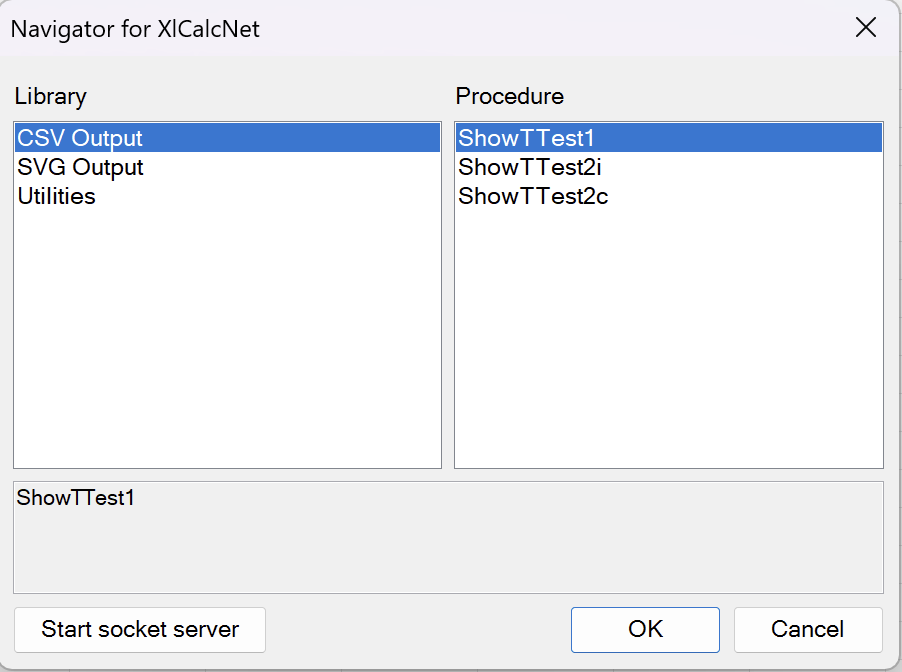
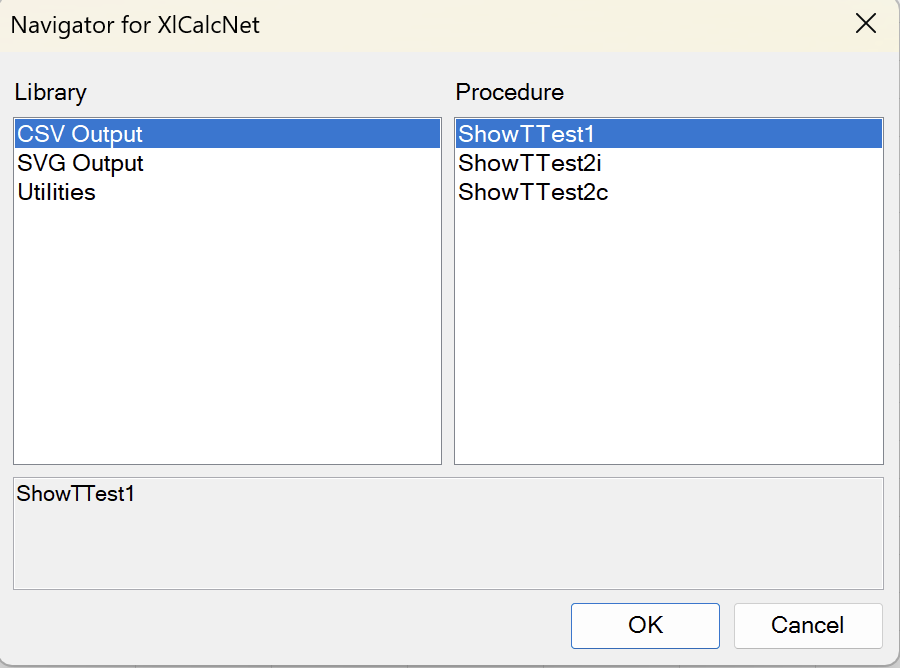
Update1004a

diff --git a/doc/conf.py b/doc/conf.py
@@ -84,9 +84,9 @@ copyright = '2026, Dietrich Hadler. '
 # other places throughout the built documents.
 #
 # The short X.Y version.
-version = '0.4'
+version = '0.5'
 # The full version, including alpha/beta/rc tags.
-release = '0.4.0'
+release = '0.5.0'
 
 # There are two options for replacing |today|: either, you set today to some
 # non-false value, then it is used:

diff --git a/doc/B01_GeneralUsage/C01_Setup.rst b/doc/B01_GeneralUsage/C01_Setup.rst
@@ -646,32 +646,24 @@ Calling Python from C:\#: socket server vs in-process calls
 
 A running socket server is critical for the use of XlCalcNet from Microsoft Excel.
 
-When starting the socket server for the first time from a specific installation of python.exe, a dialog will appear to allow access of this version of Python to networks. Confirm, since this is required for the socket server to work properly. If you have multiple installations of Python, you may have to do this for each installation.
+When starting the socket server for the first time from a specific installation of python.exe, a dialog will appear to allow access of this version of Python to networks. 
 
+
+.. image:: ../_static/NetWorkAccess.png
+    :width: 40 %
+    :align: center
+
+
+
+
+Confirm, since this is required for the socket server to work properly. If you have multiple installations of Python, you may have to do this for each installation.
+
+
+
+The socketserver is started from the TinyIDE: in the main menu, click on ``Tools`` -> ``Start SocketServer``. 
 
 
 .. image:: ../_static/SocketServer.png
-    :width: 50 %
-    :align: center
-
-The socket server can be startet in various ways:
-
-
-Starting the socketserver from the TinyIDE or GalleryOfPlots application
-...................................................................................
-
-In both applications, in the main menu, click on ``Tools`` -> ``Start SocketServer``. The GalleryOfPlots application starts the socketserver automatically at startup.
-
-
-
-
-Starting the socketserver from the Navigator dialog in Excel
-...................................................................................
-
-The socketserver can also be started from the Navigator dialog in MS Excel, by clicking on the button ``Start socket server``.
-
-
-.. image:: ../_static/XL_NavigatorXlCalcNet.png
     :width: 50 %
     :align: center
 

diff --git a/doc/000_Preface/01_preface.rst b/doc/000_Preface/01_preface.rst
@@ -24,6 +24,6 @@ Preface
 
     Spreadheet formulas (as used in MS Excel and LibreOffice Calc) are probably the most widely used programming language in the world. In addition to the built-in formulas, there is also the option to write user-defined functions (UDFs) in the Basic dialects of these programs.
 
-    XlCalcNet extends these options by providing an additional set of functions which are accessible through the function dialog (MS Excel) or function wizard (LibreOffice Calc), and expect as first argument a string containing code written in Python. This code can call any function that is available in the underlying Python installation (currently supported are versions 3.8 - 3.14), which the user can freely populate with additional packages as needed.
+    XlCalcNet extends these options by providing an additional set of functions which are accessible through the function dialog (MS Excel) or function wizard (LibreOffice Calc), and expect as first argument a string containing code written in Python. This code can call any function that is available in the underlying Python installation (currently supported are versions 3.8 - 3.15), which the user can populate with additional packages as needed.
 
 
